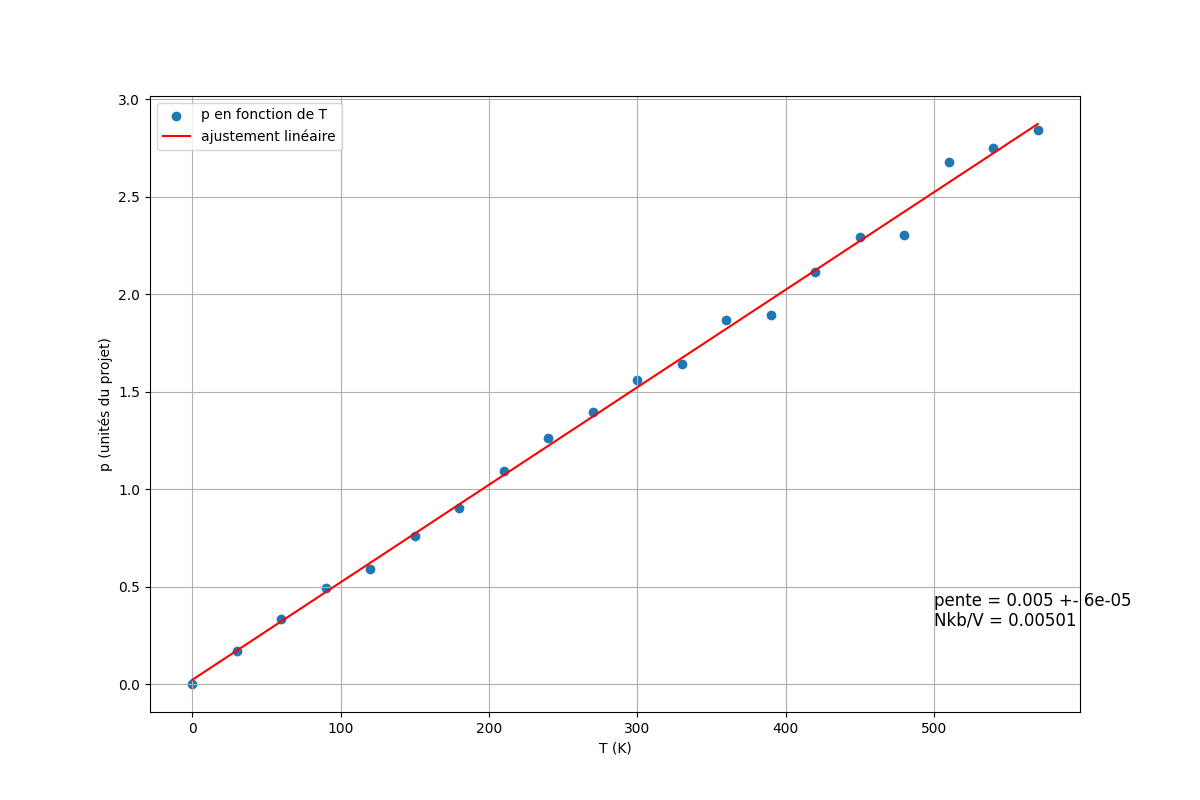
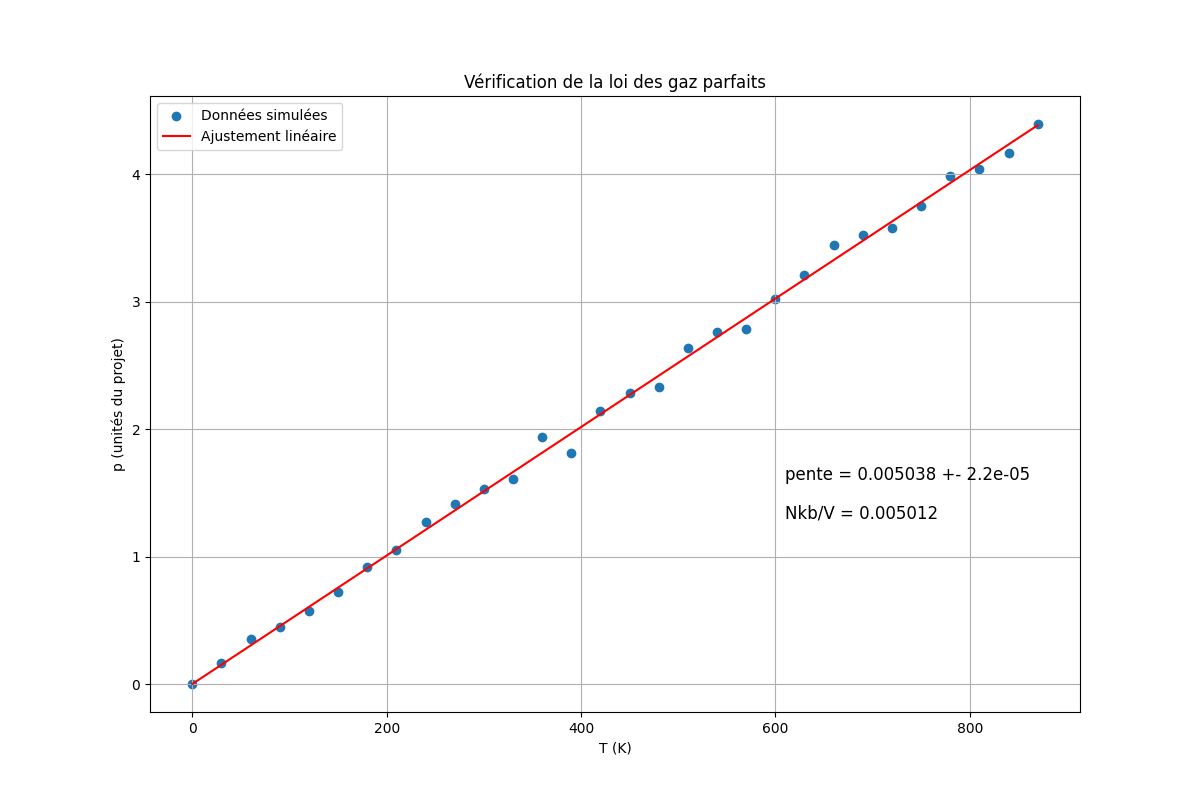
analyse GP billard fix fit

diff --git a/Modélisation/projectV2/analyse GP1 billard.py b/Modélisation/projectV2/analyse GP1 billard.py
@@ -1,13 +1,12 @@
 import numpy as np
 import matplotlib.pyplot as plt
 import os
-from matplotlib import animation
 from filemanager.read import get_param, get_posvittime, get_pressure
-from mesures.Measure import sumEC, sumLJpotsyst, sumLJwalls, calcTemp
-from scipy.stats import linregress
+from mesures.Measure import calcTemp
+from scipy.optimize import curve_fit
 
 
-T = [i*30 for i in range(20)] #température initiale en Kelvin
+T = [i*30 for i in range(30)] #température initiale en Kelvin
 save_folder = os.path.dirname(os.path.abspath(__file__)) + r'/Resultatsbillard/GP2_12x12_L15'
 results_name = r'/GP2_12x12_L15'
 T_calc = np.empty(len(T))
@@ -42,30 +41,44 @@ for temp in T:
     for j in range(len):
         T_i[j] = calcTemp(v[j], m_part, kb)
         
-    indice_T = int(0.4*np.size(T_i))
-    indice_p = int(0.4*np.size(pressure))
+    indice_T = int(0.7*np.size(T_i))
+    indice_p = int(0.7*np.size(pressure))
     T_moy = np.mean(T_i[indice_T:])
     p_moy = np.mean(pressure[indice_p:])
     T_calc[i] = T_moy
     p_calc[i] = p_moy
     i += 1
     
-    
+
+def linear(x,a):
+    return a*x
+
+popt, pcov = curve_fit(linear, T_calc, p_calc)
+slope = popt[0]
+slope_err = np.sqrt(np.diag(pcov))[0]
+
+
+"""
 results = linregress(T_calc, p_calc)
 slope = results.slope
 intercept = results.intercept
 slope_err = results.stderr
 intercept_err = results.intercept_stderr
+"""
+
+
+
 T_plot = np.linspace(T[0], T[-1], 200)   
-slope_theorique = np.float64(nb_part*kb/(L_box**2)).round(5)
+slope_theorique = np.float64(nb_part*kb/(L_box**2)).round(6)
 
 plt.figure(figsize=(12,8))
-plt.scatter(T_calc, p_calc, label='p en fonction de T')
-plt.plot(T_plot, T_plot*slope + intercept, 'r-', label='ajustement linéaire')
-plt.text(500, 0.4, f'pente = {slope.round(5)} +- {slope_err.round(5)}', fontsize=12)
-plt.text(500, 0.3, f'Nkb/V = {slope_theorique}', fontsize=12)
+plt.scatter(T_calc, p_calc, label='Données simulées')
+plt.plot(T_plot, T_plot*slope, 'r-', label='Ajustement linéaire')
+plt.text(610, 1.6, f'pente = {slope.round(6)} +- {slope_err.round(6)}', fontsize=12)
+plt.text(610, 1.3, f'Nkb/V = {slope_theorique}', fontsize=12)
 plt.xlabel('T (K)')
 plt.ylabel('p (unités du projet)')
+plt.title('Vérification de la loi des gaz parfaits')
 plt.grid()
 plt.legend()
 plt.savefig(save_folder+r'/Loi des gaz parfaits.png')
